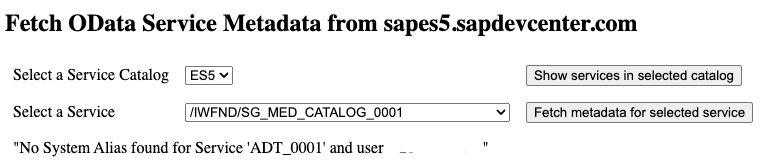
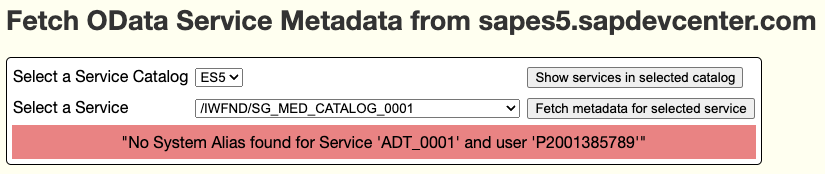
Remember last selected service

diff --git a/html/index.html b/html/index.html
@@ -1,21 +1,65 @@
 <!DOCTYPE html>
 <html>
 
+<head>
+  <style>
+    body \{ font-family: "Helvetica Neue",
+    Arial,
+    sans-serif;
+    font-size: 16px;
+    font-weight: normal;
+    line-height: 1.5;
+    -webkit-text-size-adjust: 100%;
+    background: #fffff0;
+    margin: 20px;
+    }
+
+    b,
+    strong \{ font-weight: bolder
+    }
+
+    h1,
+    h2 \{ margin: 0 0 20px 0;
+    color: #333;
+    text-transform: none
+    }
+
+    h1 \{ font-size: 2.23125rem;
+    line-height: 1.2
+    }
+
+    h2 \{ font-size: 1.7rem;
+    line-height: 1.3
+    }
+
+    table \{ border: 1px black solid;
+    border-radius: 5px;
+    border-spacing: 5px;
+    background: #fff;
+    }
+
+    .err_msg \{ background-color: rgb(233, 131, 131);
+    padding: 5px;
+    text-align: center
+    }
+  </style>
+</head>
+
 <body>
   <script type="text/javascript">
     const showServicesInCatalog = () => \{
-      document.catalogForm.action = `./fetchServices?catalog_name=` + document.querySelector("#catalogList").selectedOptions[0].value;
+      document.catalogForm.action = `./fetchServices?catalog_name=$\{document.querySelector("#catalogList").selectedOptions[0].value}`
     return true
       }
 
     const showServiceMetadata = () => \{
-      document.serviceForm.action = `./fetchMetadata?url=` + document.querySelector("#serviceList").selectedOptions[0].value;
+      document.serviceForm.action = `./fetchMetadata?url=$\{document.querySelector("#serviceList").selectedOptions[0].value}`
     return true
     }
   </script>
 
   <h2>Fetch OData Service Metadata from {hostName}</h2>
-  <table border="0" cellpadding="8" cellspacing="0">
+  <table>
     <form name="catalogForm" onsubmit="return showServicesInCatalog();">
       <tr>
         <td><label for="catalogList">Select a Service Catalog</label></td>
@@ -43,12 +87,15 @@
           </select></td>
         <td><input type="submit" value="Fetch metadata for selected service"></td>
       </tr>
+      <script type="text/javascript">
+        document.getElementById("serviceList").value = "{lastSrv}"
+      </script>
     </form>
     {{ endif }}
 
     {{ if errMsg }}
     <tr>
-      <td colspan="3">{errMsg}</td>
+      <td colspan="3" class="err_msg">{errMsg}</td>
     </tr>
     {{ endif }}
   </table>

diff --git a/src/main.rs b/src/main.rs
@@ -75,6 +75,7 @@ struct AppState {
     catalog_list: Mutex<Option<Vec<String>>>,
     service_list: Mutex<Option<Vec<(String, String)>>>,
     error_msg: Mutex<Option<String>>,
+    last_srv: Mutex<Option<String>>,
 }
 
 // ---------------------------------------------------------------------------------------------------------------------
@@ -101,6 +102,7 @@ async fn main() -> std::io::Result<()> {
         catalog_list: Mutex::new(None),
         service_list: Mutex::new(None),
         error_msg: Mutex::new(None),
+        last_srv: Mutex::new(None),
     });
 
     HttpServer::new(move || {
@@ -137,6 +139,10 @@ async fn doc_root(
         str::from_utf8(HOST_PATH).unwrap(),
         str::from_utf8(SERVICE_NAME).unwrap()
     );
+
+    *app_state.service_list.lock().unwrap() = None;
+    *app_state.error_msg.lock().unwrap() = None;
+    *app_state.last_srv.lock().unwrap() = None;
 
     // Read service document
     log::info!("     Fetching CatalogService service document");
@@ -268,14 +274,16 @@ async fn catalog_services<'template>(
     }
 
     let mut service_list: Vec<(String, String)> = Vec::new();
-    services_feed.entries.unwrap().into_iter().for_each(|s| {
-        service_list.push({
-            let props = s.content.properties.unwrap().clone();
-            (props.id, props.metadata_url)
-        })
+    services_feed.entries.unwrap().into_iter().for_each(|srv| {
+        let props = srv.content.properties.unwrap().clone();
+        service_list.push((props.id, props.metadata_url));
     });
+
     service_list.sort_by(|a, b| a.0.cmp(&b.0));
 
+    let first_srv = service_list[0].1.clone();
+
+    *app_state.last_srv.lock().unwrap() = Some(first_srv);
     *app_state.service_list.lock().unwrap() = Some(service_list);
     log::info!("<--- catalog_services()");
 
@@ -297,7 +305,7 @@ async fn fetch_metadata<'template>(
     tmpl: web::Data<TinyTemplate<'template>>,
 ) -> Result<HttpResponse, Error> {
     log::info!("---> fetch_metadata()");
-    let client = reqwest::Client::new();
+    *app_state.last_srv.lock().unwrap() = Some(qs.url.clone());
 
     let auth_chars = match fetch_auth() {
         Ok(auth_chars) => auth_chars,
@@ -314,6 +322,7 @@ async fn fetch_metadata<'template>(
 
     log::info!("GET: {}", qs.url);
 
+    let client = reqwest::Client::new();
     let response = match client
         .get(qs.url.clone())
         .header("Authorization", format!("Basic {}", auth_chars))
@@ -339,10 +348,22 @@ async fn fetch_metadata<'template>(
 
     match http_status_code {
         StatusCode::OK => {
+            *app_state.error_msg.lock().unwrap() = None;
             log::info!("<--- fetch_metadata()");
+            // Dump the raw XML on the client
             Ok(HttpResponse::build(http_status_code)
                 .content_type("text/plain")
                 .body(raw_xml))
+        }
+        StatusCode::UNAUTHORIZED => {
+            *app_state.error_msg.lock().unwrap() = Some("Logon failed".to_owned());
+            log::error!("<--- fetch_metadata() ERROR");
+            Ok(build_http_response(app_state, http_status_code, tmpl))
+        }
+        StatusCode::NOT_FOUND => {
+            *app_state.error_msg.lock().unwrap() = Some("Service not found.  This may be because the service has been defined, but not activated.".to_owned());
+            log::error!("<--- fetch_metadata() ERROR");
+            Ok(build_http_response(app_state, http_status_code, tmpl))
         }
         StatusCode::INTERNAL_SERVER_ERROR => {
             *app_state.error_msg.lock().unwrap() = Some(parse_odata_error(&raw_xml));
@@ -474,7 +495,8 @@ fn build_http_response<'template>(
               "hostName": app_state.hostname,
               "catalogList": *app_state.catalog_list.lock().unwrap(),
               "serviceList": *app_state.service_list.lock().unwrap(),
-              "errMsg": *app_state.error_msg.lock().unwrap()
+              "errMsg": *app_state.error_msg.lock().unwrap(),
+              "lastSrv": *app_state.last_srv.lock().unwrap()
             }),
         )
         .map_err(|err| error::ErrorInternalServerError(format!("Template error\n{}", err)))

diff --git a/README.md b/README.md
@@ -62,8 +62,7 @@ or
 
 ![Error screen 2](./imgs/error02.png)
 
-You might also see the HTML of the German "Anmeldung fehlgeschlagen" (Login failed) screen.
+It is also possible that an OData service has been defined, but not activated.
+In which case, you will see this message:
 
 ![Error screen 3](./imgs/error03.png)
-
-Give that this is a PoC app, no attempt has (yet) been made to handle these errors gracefully.
